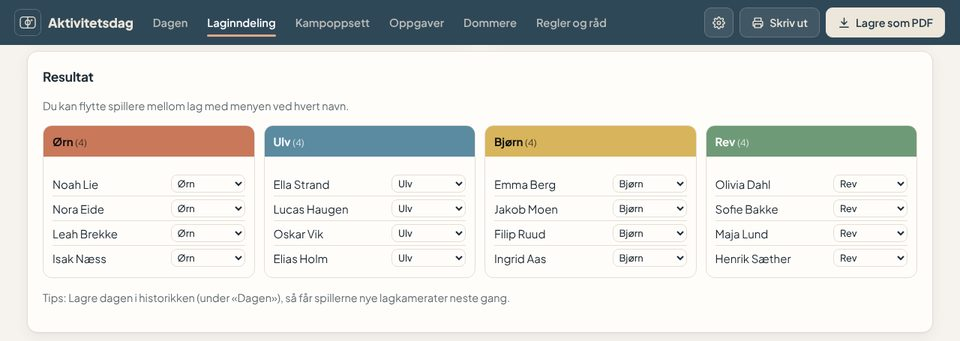
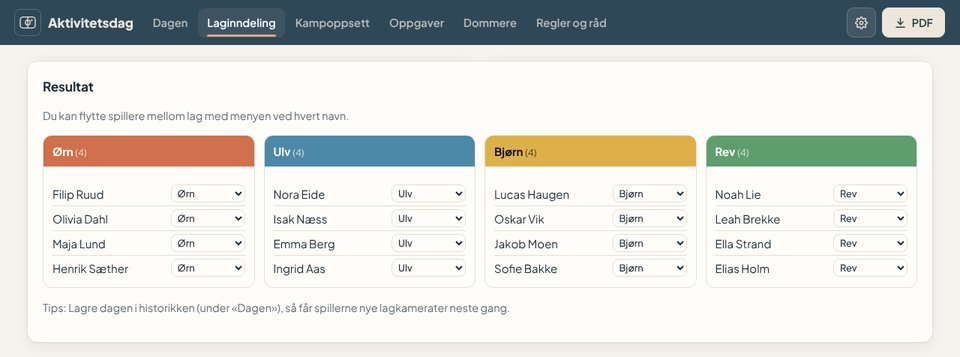
Nye skjermbilder av trax-dogtracking.no, hockeysub.no og aktivitetsdag.org
Skjermbildene i toppen, under Aktivitetsdag og i raden «Nettsider jeg har laget»
er tatt på nytt fra de oppdaterte nettsidene. Bildene har fått ?v=2, så
nettleseren henter de nye.

Claude-Session: https://claude.ai/code/session_01Muf7BshDAPDi8qXL1Q3pEW

diff --git a/site/en/index.html b/site/en/index.html
@@ -60,7 +60,7 @@
         <div class="hero-art">
           <div class="browser">
             <div class="browser-bar" aria-hidden="true"><span></span><span></span><span></span><b>hockeysub.no</b></div>
-            <img src="../img/nettside-hockeysub.jpg" alt="The website hockeysub.no, built by Tillerflaten Digital" width="960" height="600">
+            <img src="../img/nettside-hockeysub.jpg?v=2" alt="The website hockeysub.no, built by Tillerflaten Digital" width="960" height="600">
           </div>
           <img class="hero-phone" src="../img/trax-1.jpg" alt="The Trax app on iPhone" width="540" height="1174">
         </div>
@@ -203,8 +203,8 @@
             </div>
           </div>
           <div class="web-shots">
-            <img src="../img/aktivitetsdag-1.jpg" alt="The Aktivitetsdag home page" width="960" height="242" loading="lazy">
-            <img src="../img/aktivitetsdag-2.jpg" alt="Team split into four teams in Aktivitetsdag" width="960" height="341" loading="lazy">
+            <img src="../img/aktivitetsdag-1.jpg?v=2" alt="The Aktivitetsdag home page" width="960" height="242" loading="lazy">
+            <img src="../img/aktivitetsdag-2.jpg?v=2" alt="Team split into four teams in Aktivitetsdag" width="960" height="357" loading="lazy">
           </div>
         </article>
 
@@ -215,7 +215,7 @@
           <a class="site-card" href="https://trax-dogtracking.no/">
             <div class="browser">
               <div class="browser-bar" aria-hidden="true"><span></span><span></span><span></span><b>trax-dogtracking.no</b></div>
-              <img src="../img/nettside-trax.jpg" alt="The front page of trax-dogtracking.no" width="960" height="600" loading="lazy">
+              <img src="../img/nettside-trax.jpg?v=2" alt="The front page of trax-dogtracking.no" width="960" height="600" loading="lazy">
             </div>
             <span class="site-name">trax-dogtracking.no →</span>
             <span class="site-desc">Website for Trax in Norwegian, Swedish and English, with a user manual.</span>
@@ -223,7 +223,7 @@
           <a class="site-card" href="https://hockeysub.no/">
             <div class="browser">
               <div class="browser-bar" aria-hidden="true"><span></span><span></span><span></span><b>hockeysub.no</b></div>
-              <img src="../img/nettside-hockeysub.jpg" alt="The front page of hockeysub.no" width="960" height="600" loading="lazy">
+              <img src="../img/nettside-hockeysub.jpg?v=2" alt="The front page of hockeysub.no" width="960" height="600" loading="lazy">
             </div>
             <span class="site-name">hockeysub.no →</span>
             <span class="site-desc">Website for HockeySub with manual, support and privacy pages in three languages.</span>
@@ -231,7 +231,7 @@
           <a class="site-card" href="https://aktivitetsdag.org/">
             <div class="browser">
               <div class="browser-bar" aria-hidden="true"><span></span><span></span><span></span><b>aktivitetsdag.org</b></div>
-              <img src="../img/nettside-aktivitetsdag.jpg" alt="The front page of aktivitetsdag.org" width="960" height="600" loading="lazy">
+              <img src="../img/nettside-aktivitetsdag.jpg?v=2" alt="The front page of aktivitetsdag.org" width="960" height="600" loading="lazy">
             </div>
             <span class="site-name">aktivitetsdag.org →</span>
             <span class="site-desc">A planning tool that runs right in the browser, with no sign-in.</span>

diff --git a/site/index.html b/site/index.html
@@ -60,7 +60,7 @@
         <div class="hero-art">
           <div class="browser">
             <div class="browser-bar" aria-hidden="true"><span></span><span></span><span></span><b>hockeysub.no</b></div>
-            <img src="img/nettside-hockeysub.jpg" alt="Nettsiden hockeysub.no, laget av Tillerflaten Digital" width="960" height="600">
+            <img src="img/nettside-hockeysub.jpg?v=2" alt="Nettsiden hockeysub.no, laget av Tillerflaten Digital" width="960" height="600">
           </div>
           <img class="hero-phone" src="img/trax-1.jpg" alt="Trax-appen på iPhone" width="540" height="1174">
         </div>
@@ -203,8 +203,8 @@
             </div>
           </div>
           <div class="web-shots">
-            <img src="img/aktivitetsdag-1.jpg" alt="Forsiden til Aktivitetsdag" width="960" height="242" loading="lazy">
-            <img src="img/aktivitetsdag-2.jpg" alt="Laginndeling i Aktivitetsdag med fire lag" width="960" height="341" loading="lazy">
+            <img src="img/aktivitetsdag-1.jpg?v=2" alt="Forsiden til Aktivitetsdag" width="960" height="242" loading="lazy">
+            <img src="img/aktivitetsdag-2.jpg?v=2" alt="Laginndeling i Aktivitetsdag med fire lag" width="960" height="357" loading="lazy">
           </div>
         </article>
 
@@ -215,7 +215,7 @@
           <a class="site-card" href="https://trax-dogtracking.no/">
             <div class="browser">
               <div class="browser-bar" aria-hidden="true"><span></span><span></span><span></span><b>trax-dogtracking.no</b></div>
-              <img src="img/nettside-trax.jpg" alt="Forsiden til trax-dogtracking.no" width="960" height="600" loading="lazy">
+              <img src="img/nettside-trax.jpg?v=2" alt="Forsiden til trax-dogtracking.no" width="960" height="600" loading="lazy">
             </div>
             <span class="site-name">trax-dogtracking.no →</span>
             <span class="site-desc">Nettside for Trax på norsk, svensk og engelsk, med brukermanual.</span>
@@ -223,7 +223,7 @@
           <a class="site-card" href="https://hockeysub.no/">
             <div class="browser">
               <div class="browser-bar" aria-hidden="true"><span></span><span></span><span></span><b>hockeysub.no</b></div>
-              <img src="img/nettside-hockeysub.jpg" alt="Forsiden til hockeysub.no" width="960" height="600" loading="lazy">
+              <img src="img/nettside-hockeysub.jpg?v=2" alt="Forsiden til hockeysub.no" width="960" height="600" loading="lazy">
             </div>
             <span class="site-name">hockeysub.no →</span>
             <span class="site-desc">Nettside for HockeySub med manual, support og personvern på tre språk.</span>
@@ -231,7 +231,7 @@
           <a class="site-card" href="https://aktivitetsdag.org/">
             <div class="browser">
               <div class="browser-bar" aria-hidden="true"><span></span><span></span><span></span><b>aktivitetsdag.org</b></div>
-              <img src="img/nettside-aktivitetsdag.jpg" alt="Forsiden til aktivitetsdag.org" width="960" height="600" loading="lazy">
+              <img src="img/nettside-aktivitetsdag.jpg?v=2" alt="Forsiden til aktivitetsdag.org" width="960" height="600" loading="lazy">
             </div>
             <span class="site-name">aktivitetsdag.org →</span>
             <span class="site-desc">Et planleggingsverktøy som kjører rett i nettleseren, uten innlogging.</span>
